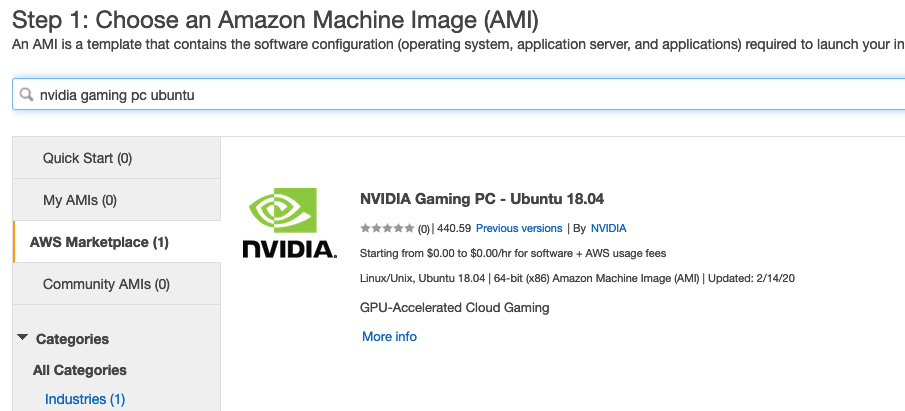
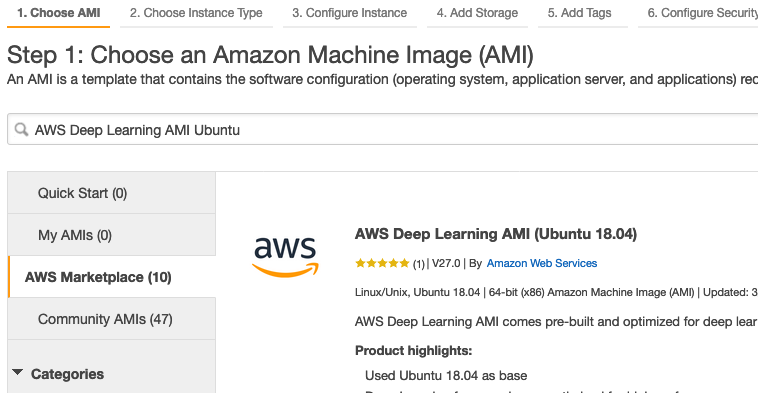
0.9.8 instructions

diff --git a/README.md b/README.md
@@ -1,8 +1,6 @@
 # CARLA Desktop
 
-[CARLA](http://carla.org), the open-source simulator for autonomous driving research, is notoriously painful to setup (as of Feb, 2020). The documentation is filled with version conflicts, outdated examples, and innacurate instructions. 
-
-This repository provides instructions for getting a CARLA environment up and running. 
+This repository provides instructions for setting up an Amazon EC2 virtual machine to run [CARLA](http://carla.org), the open-source simulator for autonomous driving research. 
 
 ## Prerequisites
 
@@ -21,18 +19,23 @@ When you've completed these steps, you'll have a working CARLA environment.
 
 ![CARLA](img/carla.gif)
 
+## Changelog
+
+* Feb 2020 - CARLA 0.9.5 instructions
+* Mar 2020 - Updated to use CARLA 0.9.8 (and simplified the process)
+
 # Get started
 
 ## Launch and configure a virtual machine on AWS
 
-You will launch the [NVIDIA Gaming PC for Ubuntu 18.04 AMI](https://aws.amazon.com/marketplace/pp/B07SSKJMBJ?ref=cns_1clkPro). 
+We'll use the [AWS Deep Learning AMI for Ubuntu 18.04](https://docs.aws.amazon.com/dlami/latest/devguide/ubuntu18-04.html).
 
-* From the [EC2 console](https://console.aws.amazon.com/ec2/v2/), click the **Launch Instance** button, then click on the "AWS Marketplace" tab in the left navigation.
-* In the search box, search for "nvidia gaming pc ubuntu", then click the **Select** button.
+* From the AWS [EC2 console](https://console.aws.amazon.com/ec2/v2/), click the **Launch Instance** button, then click on the "AWS Marketplace" tab in the left navigation.
+* In the search box, search for "AWS Deep Learning AMI Ubuntu", then click the **Select** button.
 
 ![marketplace](img/ami-aws-marketplace.png)
 
-* This AMI is optimized for GPU applications. Use the wizard to follow the steps to launch your image on an EC2 machine. Currently, the most cost-effective instance type for running CARLA is the __g4dn.xlarge__, which is $0.526/hr as of February 2020. Make sure to stop the instance when not in use to avoid high charges. 
+* This AMI is optimized for GPU applications. Use the wizard to follow the steps to launch your image on an EC2 machine. Currently, the most cost-effective instance type for running CARLA is the __g4dn.xlarge__, which is $0.526/hr as of March 2020. Make sure to stop the instance when not in use to avoid high charges. 
 
 ### Modify the EC2 Security Group
 
@@ -67,9 +70,10 @@ After the AMI boots, SSH into the machine and check `nvidia-smi` to confirm you 
 
 NoMachine allows you to access the virtual machine render the simulation much faster than VNC. 
 
-### First, install the server:
+### First, install the server on the virtual machine:
 
 ```
+cd ~
 wget https://download.nomachine.com/download/6.9/Linux/nomachine_6.9.2_1_amd64.deb
 sudo dpkg -i no*.deb
 rm no*.deb
@@ -98,26 +102,9 @@ export DEBIAN_FRONTEND=noninteractive
 sudo apt-get install -y lubuntu-desktop
 ```
 
-### Update graphics / utils
-
-```
-sudo add-apt-repository ppa:oibaf/graphics-drivers
-sudo add-apt-repository ppa:graphics-drivers/ppa
-sudo apt-get install -y libglu1-mesa-dev freeglut3-dev mesa-common-dev mesa-utils
-sudo apt-get install -y libvulkan1 mesa-vulkan-drivers vulkan-utils
-sudo apt update
-sudo apt upgrade
-```
-
-### Install CUDA utils
-
-```
-sudo apt-get install -y nvidia-cuda-toolkit
-```
-
 ## Install CARLA 0.9.8
 
-Install CARLA 0.9.8 per [https://carla.readthedocs.io/en/latest/start_quickstart/](https://carla.readthedocs.io/en/latest/start_quickstart/](https://carla.readthedocs.io/en/latest/start_quickstart/](https://carla.readthedocs.io/en/latest/start_quickstart/):
+Install CARLA 0.9.8 per the instructions at [https://carla.readthedocs.io/en/latest/start_quickstart/](https://carla.readthedocs.io/en/latest/start_quickstart/):
 
 ```
 sudo apt-key adv --keyserver keyserver.ubuntu.com --recv-keys 304F9BC29914A77D
@@ -126,33 +113,22 @@ sudo apt-get update
 sudo apt-get install carla
 ```
 
-### Install Conda and create a CARLA environment
+### Create a CARLA environment in Conda
 
-Use Conda to install Python 3 on the system and isolate the Python libraries CARLA needs:
+Conda will allow you to run multiple Python projects without worrying about dependency collisions, and isolate the Python libraries CARLA needs:
 
 ```
-cd /tmp
-wget https://repo.continuum.io/archive/Anaconda3-2019.10-Linux-x86_64.sh
-bash Anaconda3-2019.10-Linux-x86_64.sh
-source ~/.bashrc
+cd ~
 conda create -n carla python=3.5
-conda activate carla
+source activate carla
 ```
 
 ### Install CARLA Python requirements
 
 Install the required libraries needed to run the simulation:
 
-
 ```
-cd /home/ubuntu/CARLA/PythonAPI/carla/dist
-easy_install carla-0.9.5-py3.5-linux-x86_64.egg
-
-cd /home/ubuntu/CARLA/PythonAPI/carla
-pip install -r requirements.txt
-
-cd /home/ubuntu/CARLA/PythonAPI/examples
-pip install -r requirements.txt
+pip install pygame numpy
 ```
 
 ### Reboot and login with NoMachine
@@ -175,17 +151,26 @@ When you've created the connection, open it, and login with your "ubuntu" userna
 
 ## Run the CARLA Simulation
 
-Open Ubuntu's terminal application. In one window, start the CARLA server:
+### Start the CARLA Server
 
-    cd /home/ubuntu/CARLA
-    SDL_VIDEODRIVER=offscreen ./CarlaUE4.sh -carla-server
+Open Ubuntu's terminal application. In one window, start CARLA:
+
+    cd /opt/carla/bin
+    SDL_VIDEODRIVER=offscreen ./CarlaUE4.sh
+
+No window will open yet, CARLA is just waiting for you to interact with it via the Python API. If you run into errors error, I've found another reboot of the system usually fixes it.
+
+### Launch the manual control script
 
 In another terminal window (or tab), start the simulation:
 
-    conda activate carla
-    cd /home/ubuntu/CARLA/PythonAPI/examples
+    source activate carla
+    cd /opt/carla/binPythonAPI/examples
     python manual_control.py
+
+This will bring up the CARLA simulation window. You can control your car with the `W,A,S,D` keys. Check the source for `manual_control.py` for ways to change or interact with your environment.
 
 # You're finished and ready to simulate!
 
 ![CARLA](img/carla.gif)
+
